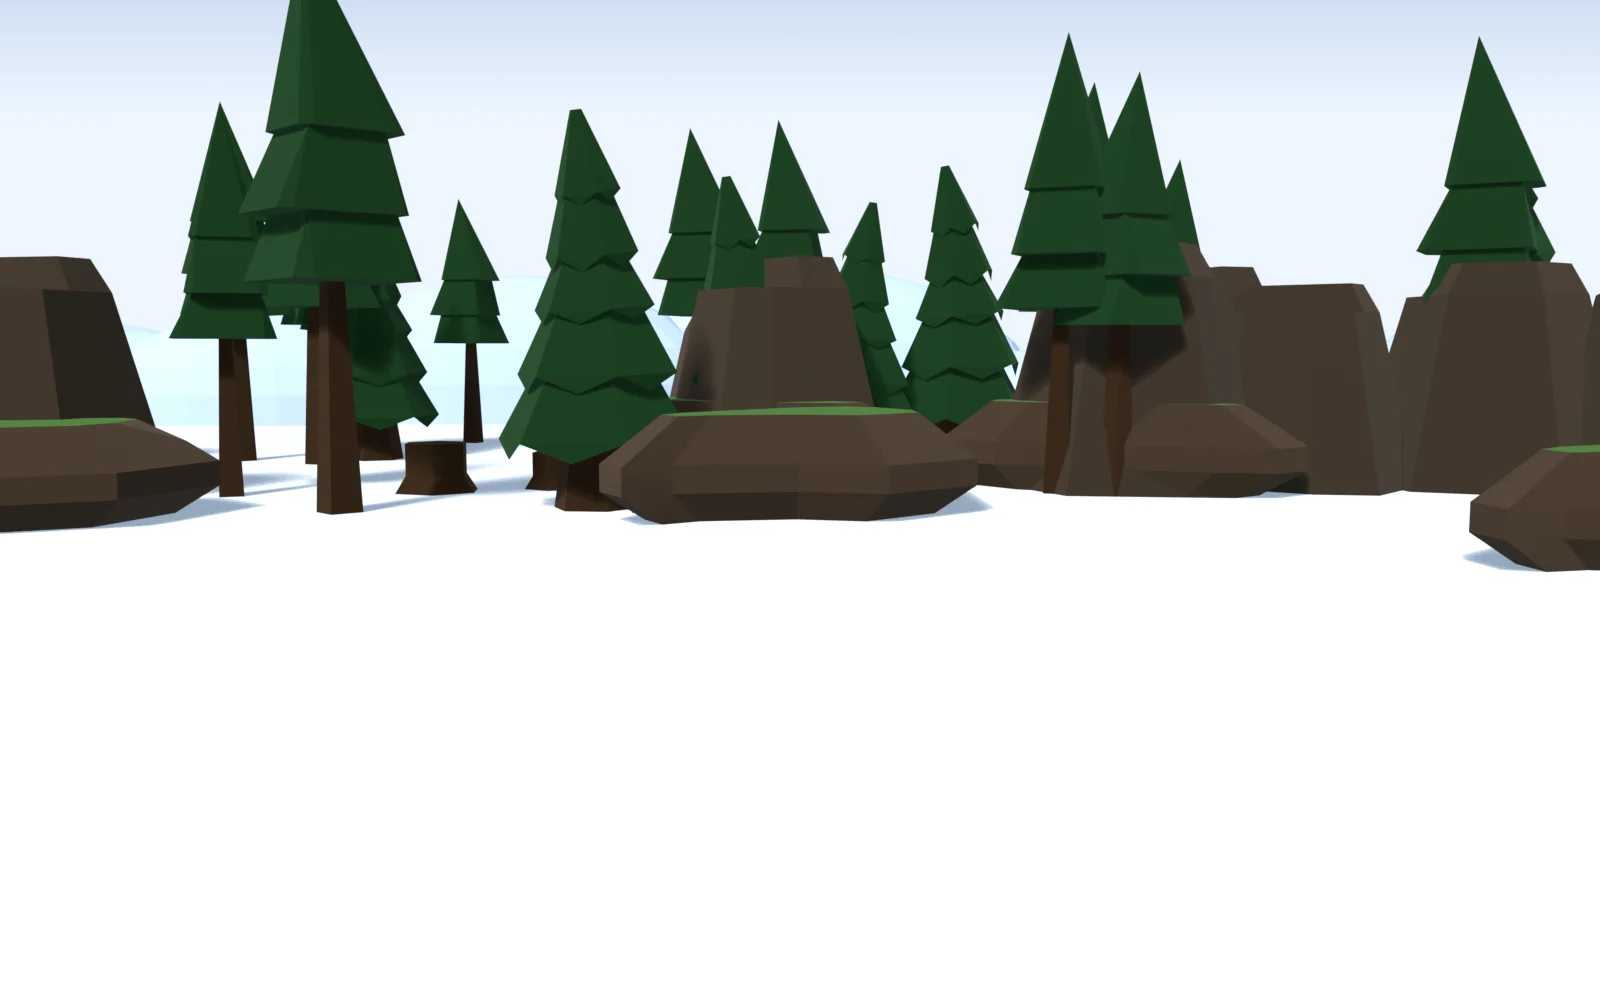
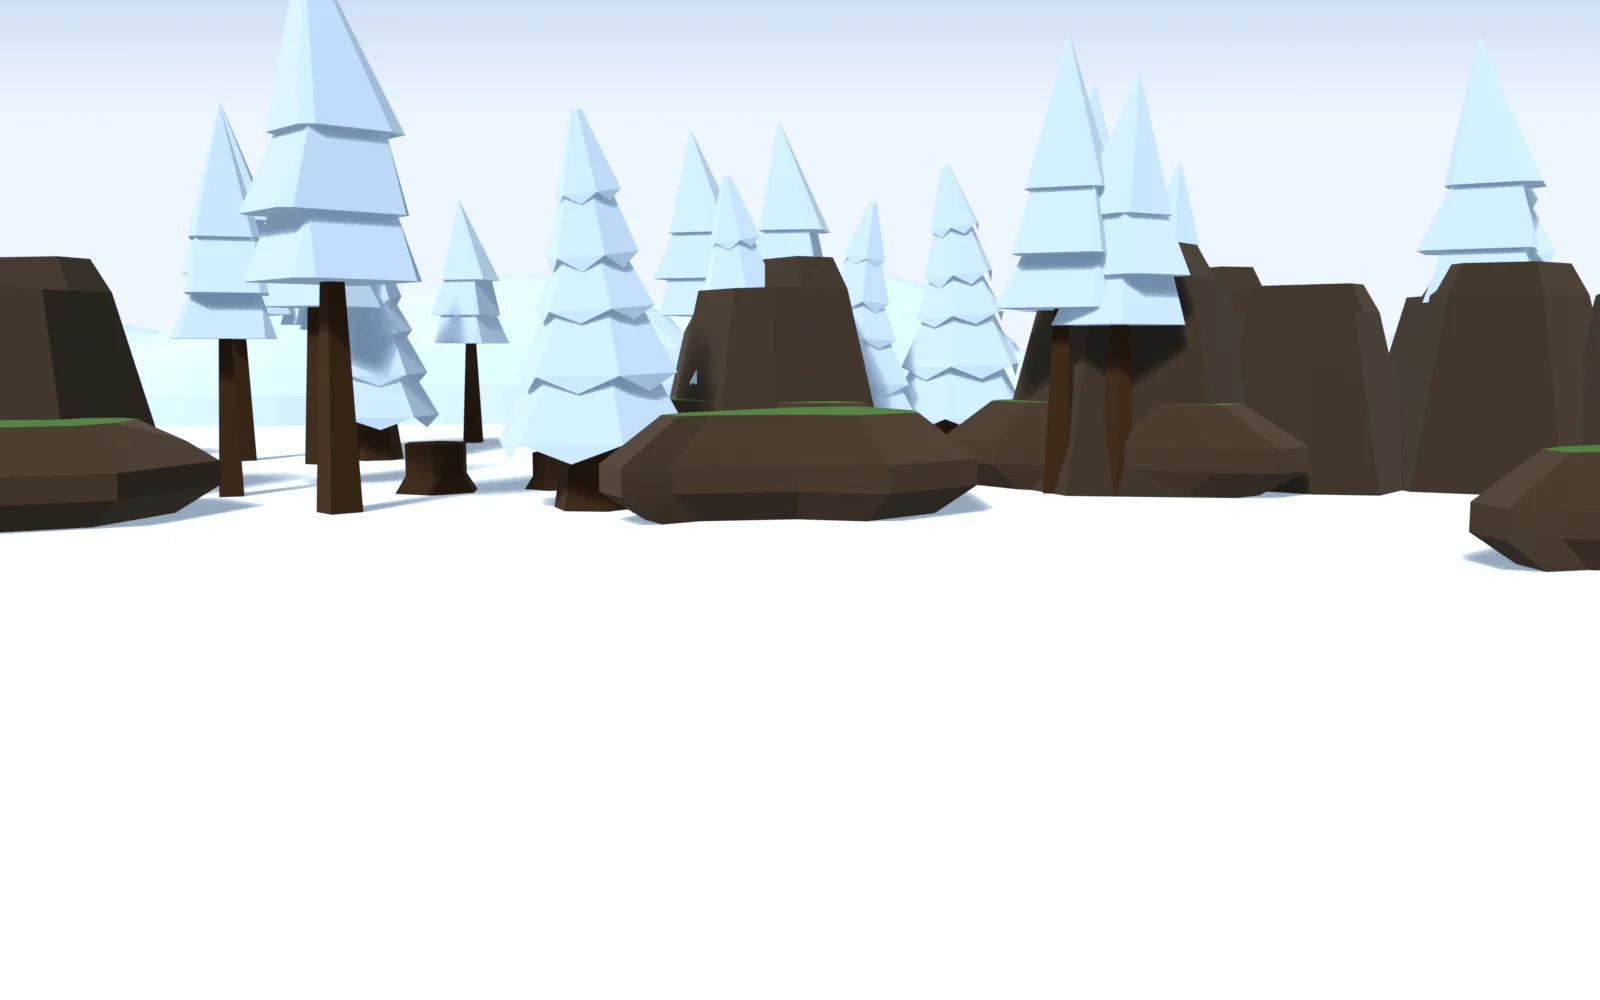
Build 94d384c4b8e1

Changed region(s): [[0.0938, 0.0, 0.75, 0.465], [0.875, 0.031, 0.9688, 0.31]]

diff --git a/sw.js b/sw.js
@@ -1,5 +1,5 @@
 // Hearthguard offline helper. VERSION changes with every build so updates arrive on their own.
-const VERSION = 'hg-ca15d39b11c0';
+const VERSION = 'hg-94d384c4b8e1';
 const CORE = ['./', 'index.html', 'manifest.webmanifest', 'icon-180.png', 'icon-512.png'];
 self.addEventListener('install', e => { e.waitUntil(caches.open(VERSION).then(c => c.addAll(CORE)).then(() => self.skipWaiting())); });
 self.addEventListener('activate', e => {
